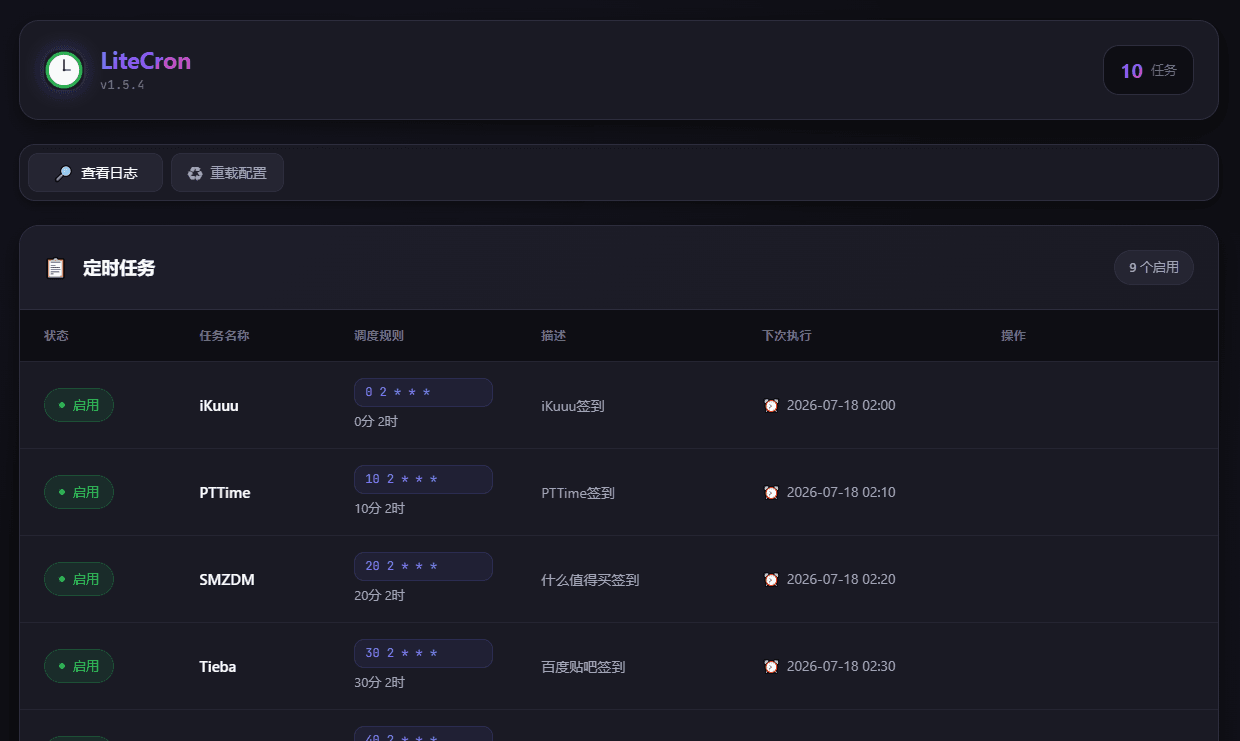
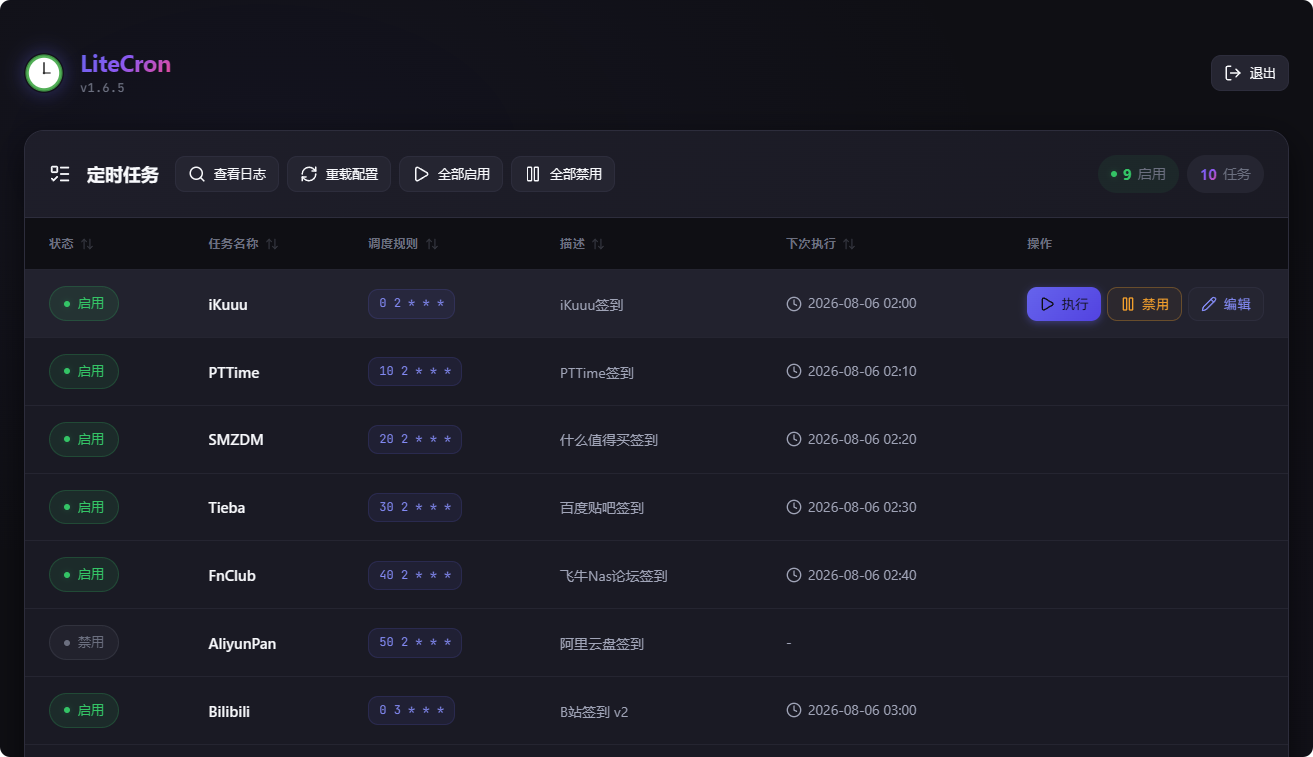
docs Update

diff --git a/README.md b/README.md
@@ -2,7 +2,7 @@
 
 <div align="center">
 
-![logo](/assets/logo.png)
+![logo](https://gh-proxy.org/https://github.com/pdone/lite-cron/raw/main/assets/logo.png)
 
 ![Docker](https://img.shields.io/badge/Docker-20.10+-blue?logo=docker)
 ![Python](https://img.shields.io/badge/Python-3.11+-green?logo=python)
@@ -129,7 +129,7 @@ docker compose up -d
 
 > 完整示例见 [compose.example.yml](./compose.example.yml)
 
-![Docker](/assets/usage.png)
+![Docker](https://gh-proxy.org/https://github.com/pdone/lite-cron/raw/main/assets/usage.png)
 
 #### 手动构建并启动容器
 ```bash
@@ -145,7 +145,15 @@ python manage.py status
 
 打开浏览器访问：**http://localhost:5000**
 
-![WebUI](/assets/page_cn.png)
+#### 授权验证
+![WebUI 授权验证](https://gh-proxy.org/https://github.com/pdone/lite-cron/raw/main/assets/page_auth.png)
+
+#### 主界面
+
+![WebUI](https://gh-proxy.org/https://github.com/pdone/lite-cron/raw/main/assets/page.png)
+
+#### 移动端
+![WebUI 移动端](https://gh-proxy.org/https://github.com/pdone/lite-cron/raw/main/assets/page_mobile.png)
 
 ## 安全
 
@@ -208,7 +216,7 @@ python -c "import secrets; print(secrets.token_urlsafe(32))"
 python manage.py              # 启动交互式菜单
 ```
 
-![Manage Menu](/assets/manage.png)
+![Manage Menu](https://gh-proxy.org/https://github.com/pdone/lite-cron/raw/main/assets/manage.png)
 
 #### 命令行模式
 

diff --git a/README_EN.md b/README_EN.md
@@ -2,7 +2,7 @@
 
 <div align="center">
 
-![logo](/assets/logo.png)
+![logo](https://gh-proxy.org/https://github.com/pdone/lite-cron/raw/main/assets/logo.png)
 
 ![Docker](https://img.shields.io/badge/Docker-20.10+-blue?logo=docker)
 ![Python](https://img.shields.io/badge/Python-3.11+-green?logo=python)
@@ -128,7 +128,7 @@ docker compose up -d
 
 > Full example see [compose.example.yml](./compose.example.yml)
 
-![Docker](/assets/usage.png)
+![Docker](https://gh-proxy.org/https://github.com/pdone/lite-cron/raw/main/assets/usage.png)
 
 #### Manual Build and Start
 ```bash
@@ -144,7 +144,15 @@ python manage.py status
 
 Open browser: **http://localhost:5000**
 
-![WebUI](/assets/page.png)
+#### Authentication
+![WebUI Authentication](https://gh-proxy.org/https://github.com/pdone/lite-cron/raw/main/assets/page_auth.png)
+
+#### Main Interface
+
+![WebUI](https://gh-proxy.org/https://github.com/pdone/lite-cron/raw/main/assets/page.png)
+
+#### Mobile
+![WebUI Mobile](https://gh-proxy.org/https://github.com/pdone/lite-cron/raw/main/assets/page_mobile.png)
 
 ## Security
 
@@ -207,7 +215,7 @@ python -c "import secrets; print(secrets.token_urlsafe(32))"
 python manage.py              # Start interactive menu
 ```
 
-![Manage Menu](/assets/manage.png)
+![Manage Menu](https://gh-proxy.org/https://github.com/pdone/lite-cron/raw/main/assets/manage.png)
 
 #### Command Line Mode
 
